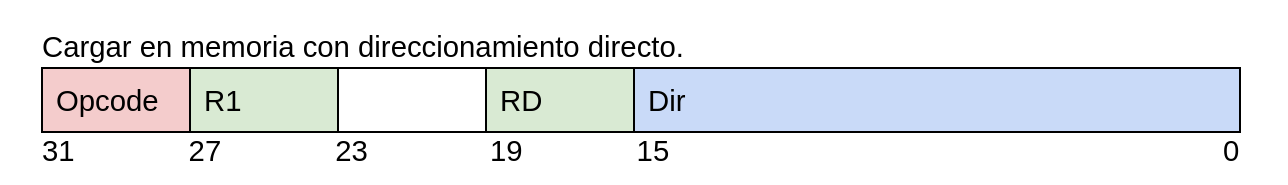
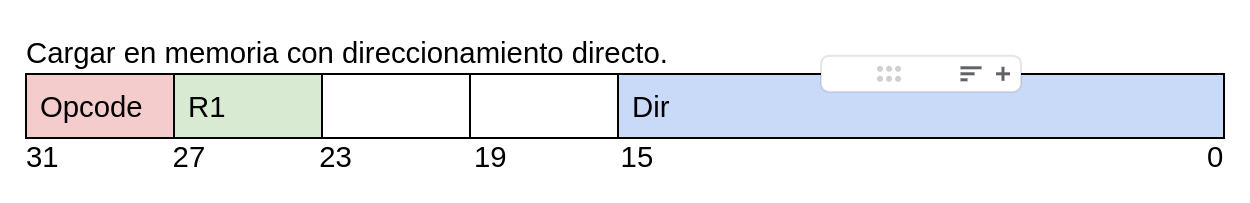
Escritura y borrado de leds activa a baja

Changed region(s): [[0.0, 0.1892, 0.9984, 0.8919], [0.936, 0.7297, 0.9984, 0.8649]]

diff --git a/assembly/asm.cpp b/assembly/asm.cpp
@@ -25,11 +25,11 @@ const char* opcodes[] = { "1000", "1001", "1010", "1011", "1100", "1101", "1110"
 
 // Operandos 
 
-#define MAXNUMOPER 4      //Número máximo de operandos posibles en una instrucción
+#define MAXNUMOPER 3      //Número máximo de operandos posibles en una instrucción
 
 // Codificación de los operandos de cada instrucción (C: cte datos, D: cte de dirección de código, R: campo de registro)
 // FALTAN OPES
-const char* operands[] = { "RR", "RR", "RRR", "RRR", "RRR", "RRR", "RR", "RR", "RRD", "RRCR", "RD", "RRC", "S", "", "RC", "RC", "RRC", "RRC", "RRC", "RRC", "RC", "RC", "D", "S", "S", "S", "S", "", ""};
+const char* operands[] = { "RR", "RR", "RRR", "RRR", "RRR", "RRR", "RR", "RR", "RC", "RRC", "RC", "RRC", "S", "", "RC", "RC", "RRC", "RRC", "RRC", "RRC", "RC", "RC", "D", "S", "S", "S", "S", "", ""};
 
 //Tamaños de operandos
 #define CONSTANTSIZE 16    //Tamaño en bits de una constante C (o dirección de datos si así se considera)
@@ -40,35 +40,35 @@ const char* operands[] = { "RR", "RR", "RRR", "RRR", "RRR", "RRR", "RR", "RR", "
 #define NUMINS (sizeof(mnemonics)/sizeof(mnemonics[0]))     //Número de instrucciones deducido de la matriz de nemónicos
 
 //Posiciones (bit más significativo) de los operandos en la instrucción (de INSTSIZE-1 a 1), 0 significa no usado (no hay operandos de sólo 1 bit)
-const int posoper[NUMINS][MAXNUMOPER] = { {19, 27, 0, 0},   // mov      RR      1000
-                                          {19, 27, 0, 0},   // not      RR      1001
-                                          {19, 27, 23, 0},  // add      RRR     1010
-                                          {19, 27, 23, 0},  // sub      RRR     1011
-                                          {19, 27, 23, 0},  // and      RRR     1100
-                                          {19, 27, 23, 0},  // or       RRR     1101
-                                          {19, 27, 0, 0},   // c2       RR      1110
-                                          {19, 27, 0, 0},   // c2       RR      1111
-                                          {19, 27, 0, 0},   // store    RRD     0000
-                                          {19, 27, 15, 23}, // storer   RRCR    0010
-                                          {19, 15, 0, 0},   // load     RD      0011
-                                          {19, 23, 15, 0},  // loadr    RRC     0100
-                                          {9, 0, 0, 0},     // jcall    S       0101
-                                          {0, 0, 0, 0},     // jret     none    0110
-                                          {19, 15, 0, 0},   // li       RC      00010000
-                                          {19, 15, 0, 0},   // noti     RC      00010001
-                                          {19, 23, 15, 0},  // addi     RRC     00010010
-                                          {19, 23, 15, 0},  // subi     RRC     00010011
-                                          {19, 23, 15, 0},  // andi     RRC     00010100
-                                          {19, 23, 15, 0},  // ori      RRC     00010101
-                                          {19, 15, 0, 0},   // c2i      RC      00010110
-                                          {19, 15, 0, 0},   // c2i      RC      00010111
-                                          {9, 0, 0, 0},     // j        D       00011000
-                                          {9, 0, 0, 0},     // jrel     S       00011001
-                                          {9, 0, 0, 0},     // jz       S       00011010
-                                          {9, 0, 0, 0},     // jnz      S       00011011
-                                          {9, 0, 0, 0},     // jne      S       00011100
-                                          {0, 0, 0, 0},     // reti     none    00011101
-                                          {0, 0, 0, 0} };   // nop      none    00011111
+const int posoper[NUMINS][MAXNUMOPER] = { {19, 27, 0},      // mov      RR      1000
+                                          {19, 27, 0},      // not      RR      1001
+                                          {19, 27, 23},     // add      RRR     1010
+                                          {19, 27, 23},     // sub      RRR     1011
+                                          {19, 27, 23},     // and      RRR     1100
+                                          {19, 27, 23},     // or       RRR     1101
+                                          {19, 27, 0},      // c2       RR      1110
+                                          {19, 27, 0},      // c2       RR      1111
+                                          {27, 15, 0},      // store    RD     0000
+                                          {27, 23, 15},     // storer   RRC    0010
+                                          {19, 15, 0},      // load     RD      0011
+                                          {19, 23, 15},     // loadr    RRC     0100
+                                          {9, 0, 0},        // jcall    S       0101
+                                          {0, 0, 0},        // jret     none    0110
+                                          {19, 15, 0},      // li       RC      00010000
+                                          {19, 15, 0},      // noti     RC      00010001
+                                          {19, 23, 15},     // addi     RRC     00010010
+                                          {19, 23, 15},     // subi     RRC     00010011
+                                          {19, 23, 15},     // andi     RRC     00010100
+                                          {19, 23, 15},     // ori      RRC     00010101
+                                          {19, 15, 0},      // c2i      RC      00010110
+                                          {19, 15, 0},      // c2i      RC      00010111
+                                          {9, 0, 0},        // j        D       00011000
+                                          {9, 0, 0},        // jrel     S       00011001
+                                          {9, 0, 0},        // jz       S       00011010
+                                          {9, 0, 0},        // jnz      S       00011011
+                                          {9, 0, 0},        // jne      S       00011100
+                                          {0, 0, 0},        // reti     none    00011101
+                                          {0, 0, 0} };      // nop      none    00011111
 
 
 //*************************************************************************************************************************************************************************
@@ -591,13 +591,13 @@ int main(int argc, char* argv[]) {
             //printf("Leyendo programa de interrupciones.\n");
             char *srcinterruptionfilename = new char[sizeof(argv[3])+1];
             srcinterruptionfilename = argv[3];
-            for (int i = 1; i < sizeof(progfile_line)/sizeof(progfile_line[0])-2; i++) {
+            for (int i = 1; i < sizeof(progfile_line)/sizeof(progfile_line[0])-3; i++) {
                 ensambla(srcinterruptionfilename, dstfilename, &progfile_line[i]);
             }
             for (int i = 4; i < argc; i++) {
                 srcinterruptionfilename = new char[sizeof(argv[i])+1];
                 srcinterruptionfilename = argv[i];
-                ensambla(srcinterruptionfilename, dstfilename, &progfile_line[i+3]);
+                ensambla(srcinterruptionfilename, dstfilename, &progfile_line[i+2]);
             }
         }
     } else {
